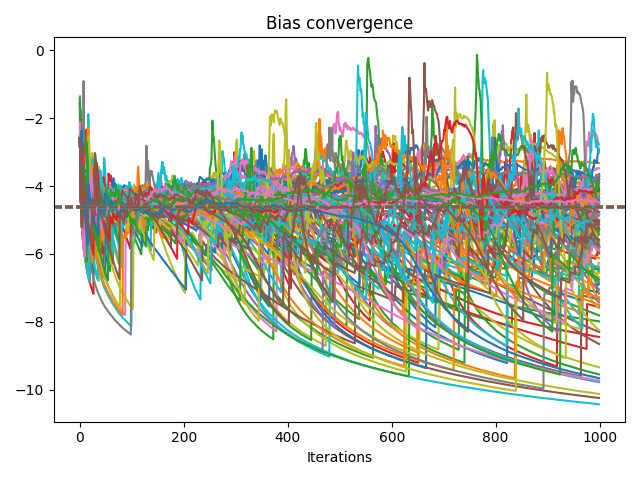
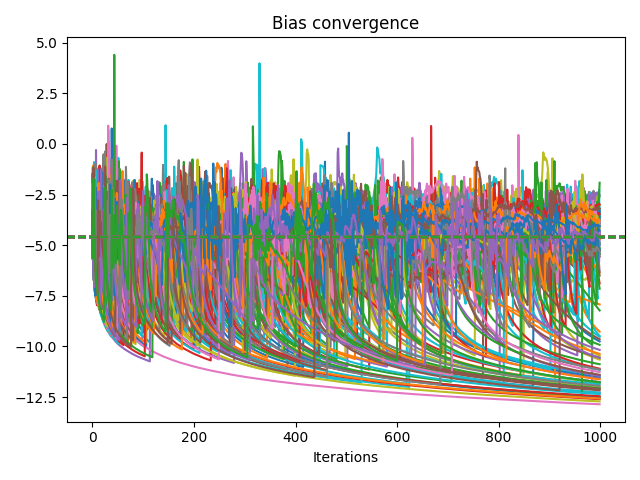
New best adaptive MNIST

diff --git a/custom_stdp.py b/custom_stdp.py
@@ -57,7 +57,7 @@ class BayesianSTDPAdaptive(nn.Module):
                  base_mu_bias: float = 0.5,
                  min_mu_weights: float = 1e-10,
                  min_mu_bias: float = 1e-10,
-                 max_delta: float = 2e0,
+                 max_delta: float = 1e1,
                  moment_update_factor: float = 1e-3,
                  collect_history: bool = False):
         super().__init__()
@@ -344,8 +344,10 @@ torch.Tensor, torch.Tensor, torch.Tensor]]:
         # applies to all neurons (if at least one fired)
         db = bias_bumps - total_out_spikes_sum[i]
 
-        delta_weights = mu_weights * dw
-        delta_biases = mu_bias * db
+        delta_weights = torch.clip(mu_weights * dw
+                                   , -max_delta, max_delta)
+        delta_biases = torch.clip(mu_bias * db
+                                  , -max_delta, max_delta)
 
         weights += delta_weights
         biases += delta_biases
@@ -369,8 +371,8 @@ torch.Tensor, torch.Tensor, torch.Tensor]]:
         mu_weights = (weight_second_moment - weight_first_moment ** 2) / (torch.exp(-weight_first_moment) + 1.0)
         mu_bias = (bias_second_moment - bias_first_moment ** 2) / (torch.exp(-bias_first_moment) + 1.0)
 
-        # mu_weights = torch.clip(mu_weights, min_mu_weights, base_mu_weights)
-        # mu_bias = torch.clip(mu_bias, min_mu_bias, base_mu_bias)
+        mu_weights = torch.clip(mu_weights, min_mu_weights, base_mu_weights)
+        mu_bias = torch.clip(mu_bias, min_mu_bias, base_mu_bias)
 
     lr_state = (mu_weights, weight_first_moment, weight_second_moment,
                 mu_bias, bias_first_moment, bias_second_moment)

diff --git a/mnist_experiment_with_plotting.py b/mnist_experiment_with_plotting.py
@@ -15,7 +15,7 @@ from train_test_loop import ModelConfig, EncoderConfig, STDPConfig, OutputCellCo
     TestConfig, test_model
 
 # Experiment name
-experiment_name = "adaptive_simple_non_binary_weak_inhibition"
+experiment_name = "adaptive_simple_non_binary_strong_inhibition"
 
 # Set seed
 seed = 9665
@@ -67,7 +67,7 @@ data_count = mnist_train.data.shape[0]
 input_osc_args = BackgroundOscillationArgs(1, 20, -torch.pi / 2)
 output_osc_args = BackgroundOscillationArgs(50, 20, -torch.pi / 2)
 
-inhibition_args = InhibitionArgs(2000, 50, 5e-3)
+inhibition_args = InhibitionArgs(2000, 50, 2e-3)
 noise_args = NoiseArgs(0, 5e-3, 50)
 
 model_config = ModelConfig(
@@ -84,8 +84,8 @@ model_config = ModelConfig(
         background_oscillation_args=input_osc_args
     ),
     stdp_config=STDPConfig(
-        base_mu=5e-1,
-        base_mu_bias=5e-1,
+        base_mu=2e-1,
+        base_mu_bias=2e-1,
         c=1.,
         time_batch_size=10,
         adaptive=True,
